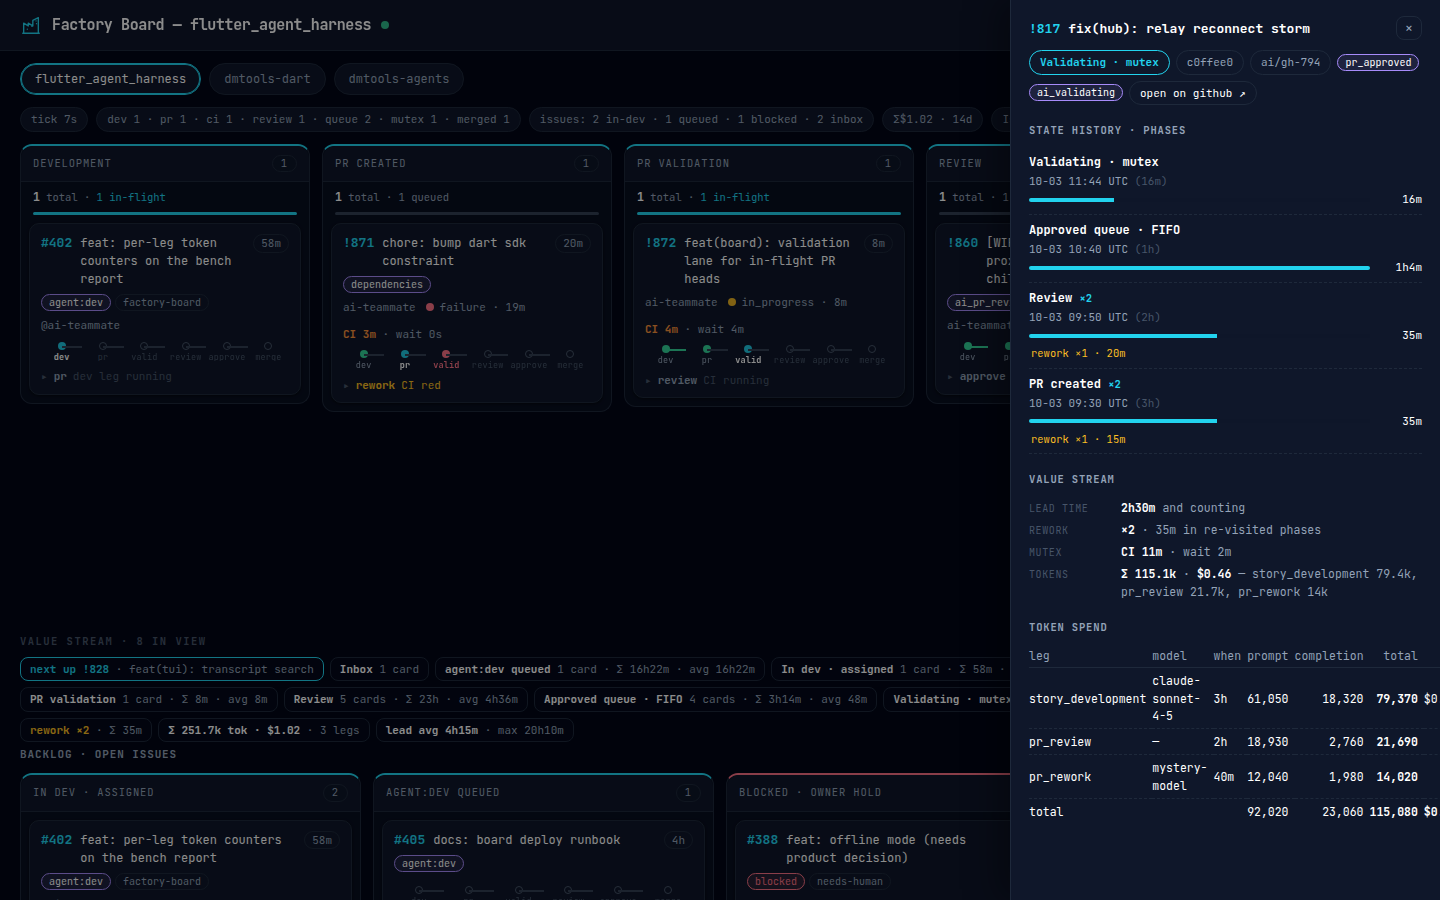
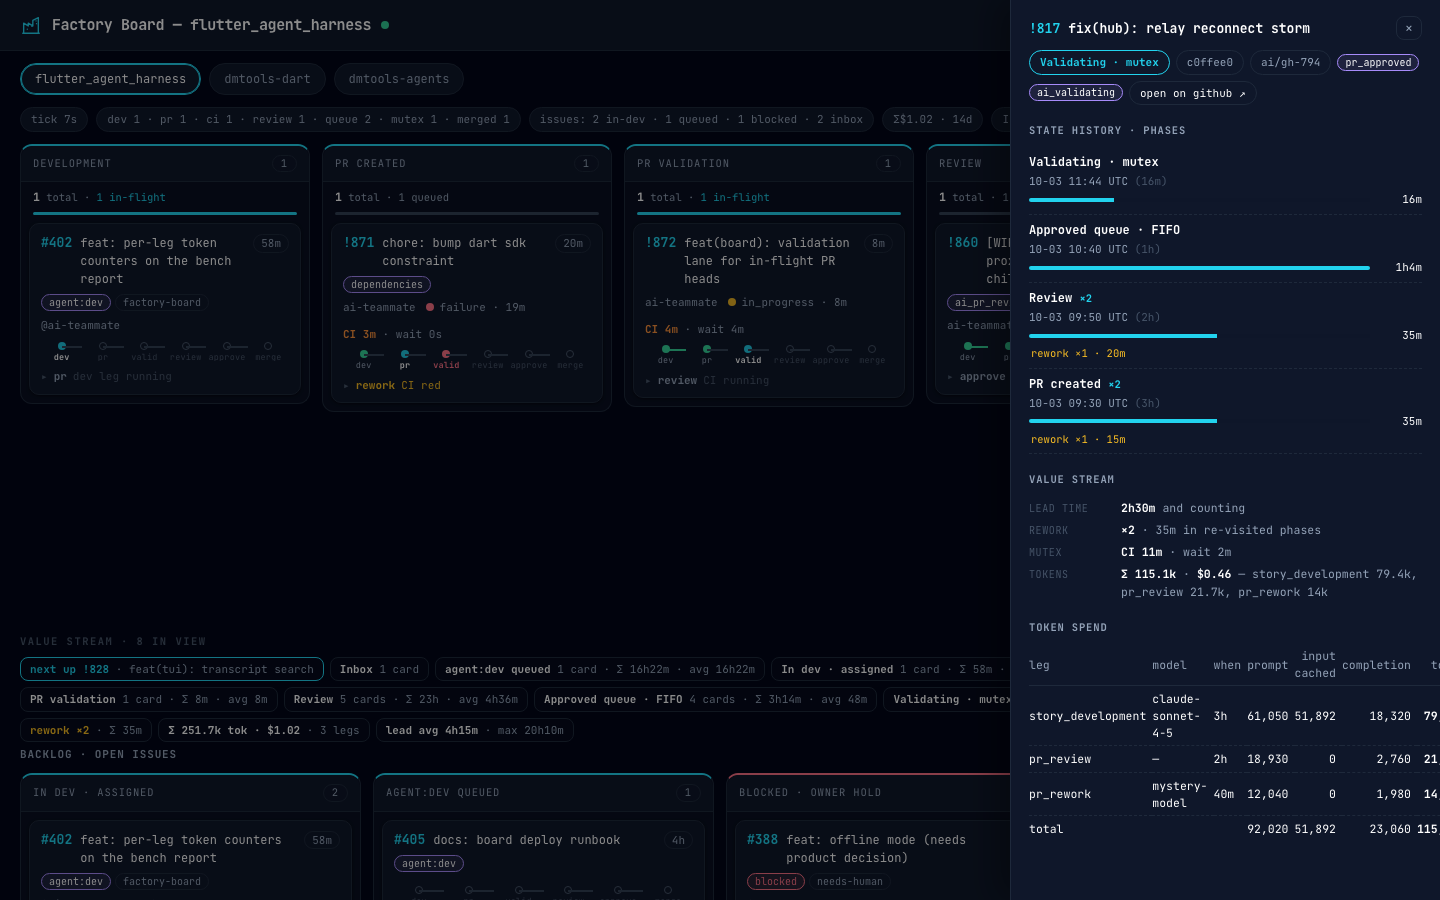
feat(board): TOKEN SPEND gains the 'input cached' column
The fa-tokens ledger carries cacheRead per segment and factoryState
(normTokenRow/rowCost) already normalizes and prices it — but producer
rows never included the field (fixed on the producer side in
dmtools-agentic-workflows), and the drawer's table had no column for it.

Add 'input cached' between prompt and completion in both the per-leg
rows and the totals row; absent cacheRead on legacy rows renders 0.
Fixture gains cacheRead on three rows; drawer visual-check regenerated.

diff --git a/site/factory/app.js b/site/factory/app.js
@@ -653,18 +653,22 @@
     if (!rows.length) {
       body = '<p class="drawer-empty">tokens — not reported by this factory</p>';
     } else {
-      var tot = { prompt: 0, completion: 0, total: 0, cost: null };
+      var tot = { prompt: 0, cached: 0, completion: 0, total: 0, cost: null };
       var trs = rows.map(function (t) {
         tot.prompt += t.prompt || 0;
+        tot.cached += t.cacheRead || 0;
         tot.completion += t.completion || 0;
         tot.total += t.total || 0;
         if (t.cost != null) tot.cost = (tot.cost || 0) + t.cost;
         // gh-825: model + $ per leg — unknown/absent model renders '—' and
-        // no $ (tokens only, AC2); model ids are report input → esc()
+        // no $ (tokens only, AC2); model ids are report input → esc().
+        // cacheRead (input cached) rides the producer's row once the
+        // factory-teammate publish step sums it; absent on old rows → 0.
         return '<tr><td>' + esc(t.leg || '—') + '</td>' +
           '<td>' + (t.model ? esc(t.model) : '—') + '</td>' +
           '<td>' + (t.at ? esc(ago(t.at)) : '—') + '</td>' +
           '<td class="num">' + (t.prompt || 0).toLocaleString() + '</td>' +
+          '<td class="num">' + (t.cacheRead || 0).toLocaleString() + '</td>' +
           '<td class="num">' + (t.completion || 0).toLocaleString() + '</td>' +
           '<td class="num"><b>' + (t.total || 0).toLocaleString() + '</b></td>' +
           '<td class="num">' + (t.cost != null ? esc(fmtUsd(t.cost)) : '—') +
@@ -672,11 +676,13 @@
       }).join('');
       body = '<table class="tok-table"><thead><tr>' +
         '<th>leg</th><th>model</th><th>when</th><th class="num">prompt</th>' +
-        '<th class="num">completion</th><th class="num">total</th>' +
+        '<th class="num">input cached</th><th class="num">completion</th>' +
+        '<th class="num">total</th>' +
         '<th class="num">$</th>' +
         '</tr></thead><tbody>' + trs +
         '<tr class="tok-total"><td>total</td><td></td><td></td>' +
         '<td class="num">' + tot.prompt.toLocaleString() + '</td>' +
+        '<td class="num">' + tot.cached.toLocaleString() + '</td>' +
         '<td class="num">' + tot.completion.toLocaleString() + '</td>' +
         '<td class="num"><b>' + tot.total.toLocaleString() + '</b></td>' +
         '<td class="num"><b>' + (tot.cost != null ? esc(fmtUsd(tot.cost)) : '—') +
